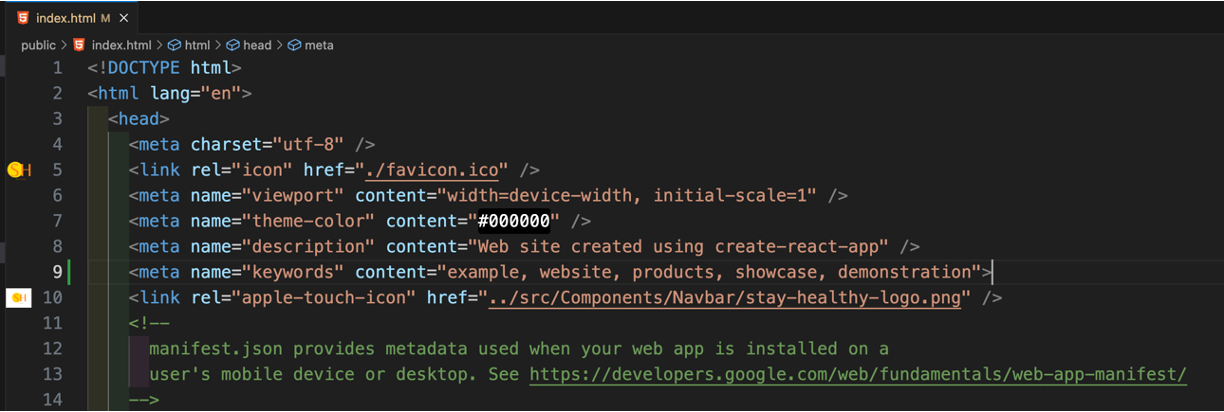
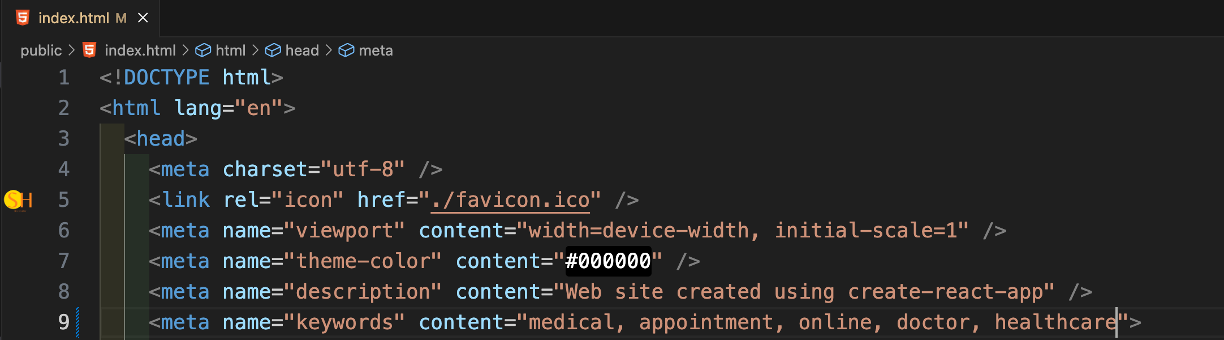
update keywords for seo

Changed region(s): [[0.0, 0.0, 0.9624, 1.0]]

diff --git a/public/index.html b/public/index.html
@@ -6,7 +6,7 @@
     <meta name="viewport" content="width=device-width, initial-scale=1" />
     <meta name="theme-color" content="#000000" />
     <meta name="description" content="Web site created using create-react-app" />
-    <meta name="keywords" content="example, website, products, showcase, demonstration">
+    <meta name="keywords" content="medical, appointment, online, doctor, healthcare">
     <link rel="apple-touch-icon" href="../src/Components/Navbar/stay-healthy-logo.png" />
     <!--
       manifest.json provides metadata used when your web app is installed on a
